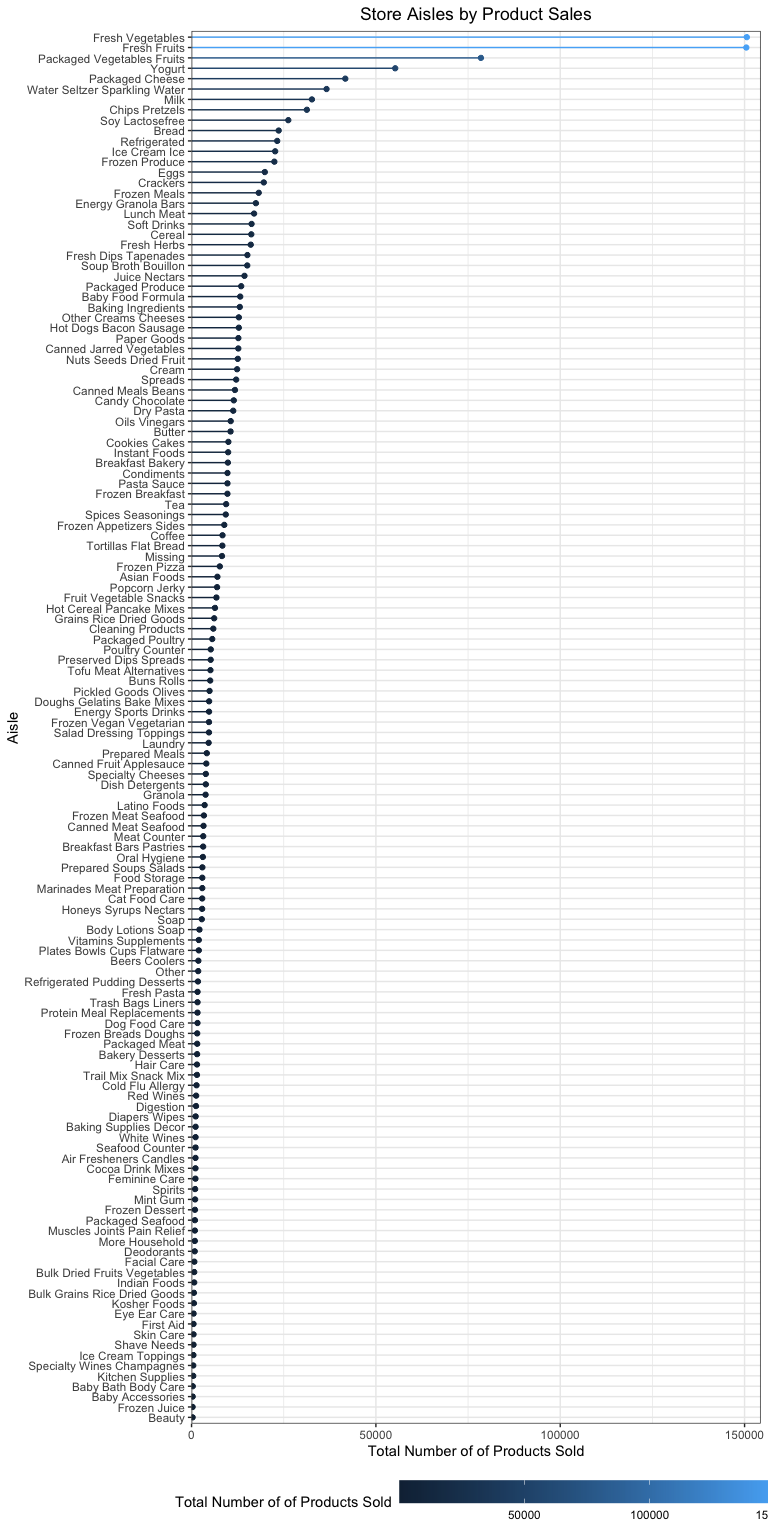
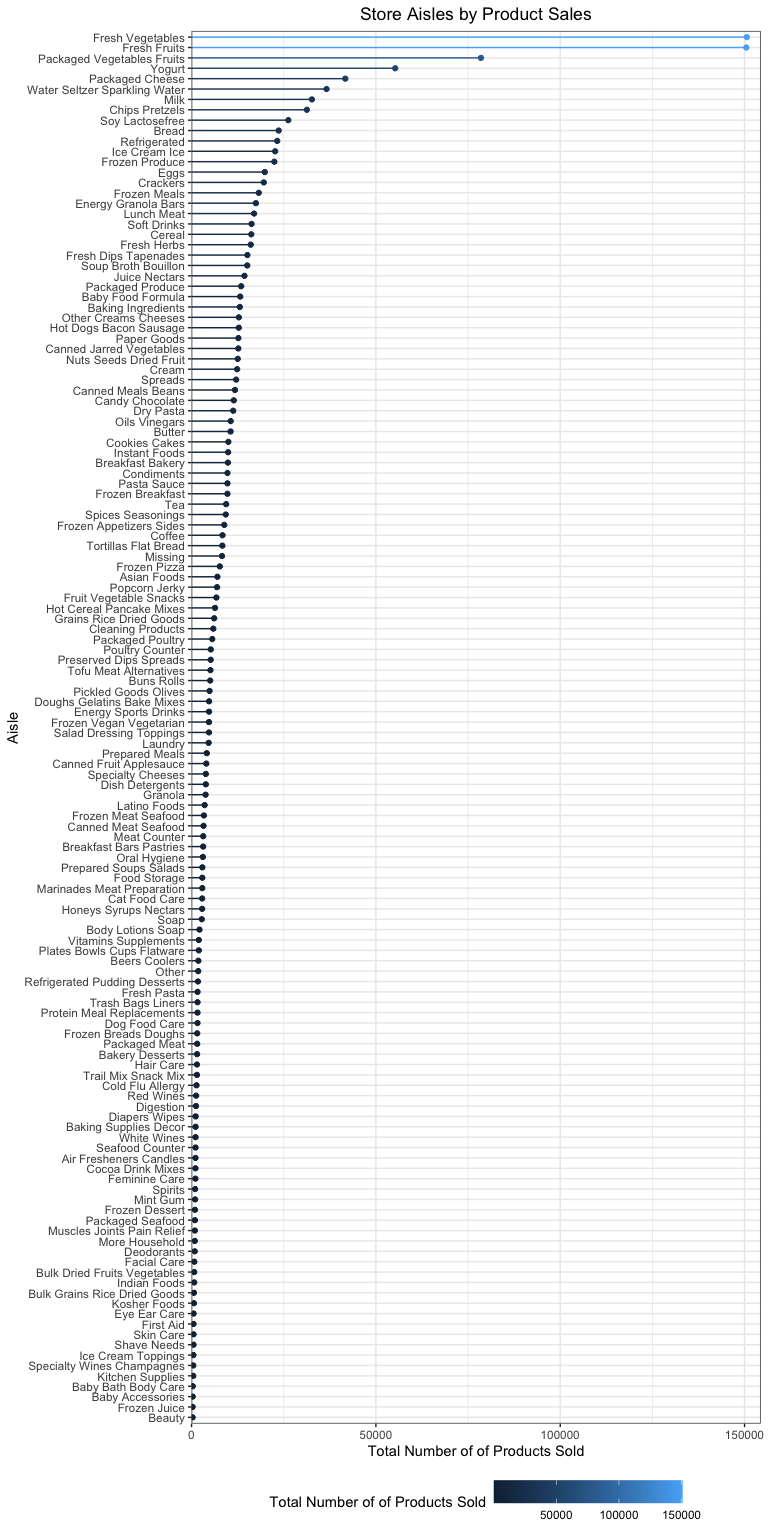
fix figure display

Changed region(s): [[0.25, 0.9375, 0.7188, 1.0], [0.7812, 0.9375, 1.0, 1.0]]

diff --git a/pubh7462_hw3_wojan.md b/pubh7462_hw3_wojan.md
@@ -106,7 +106,7 @@ instacart %>%
   labs(x = "Total Number of of Products Sold",
        y = "Aisle",
        title = "Store Aisles by Product Sales") +
-  theme(legend.key.width = unit(2, "cm"))
+  theme(legend.key.width = unit(1, "cm"))
 ```
 
 ![](pubh7462_hw3_wojan_files/figure-gfm/prob_3.2-1.png)<!-- -->
@@ -143,15 +143,15 @@ instacart %>%
   facet_wrap(vars(department)) +
   ## Set visual style of plot
   scale_color_hue(h = c(100, 180), l = 50, c = 150,
-                   name = "Sales Rank within Department") +
+                   name = "Sales Rank \nwithin Department") +
   scale_x_continuous(expand = expansion(mult = c(0, 0.025))) +
   scale_y_continuous(trans = "reverse") +
-  guides(color = guide_legend(nrow = 1)) +
+  guides(color = guide_legend(nrow = 6)) +
   labs(x = "Number of of Products Sold",
        y = "",
        title = "Top Six Aisles in Top Six Departments by Sales") +
   theme(axis.text.y = element_blank(), axis.ticks.y = element_blank(),
-        panel.spacing.x = unit(6, "mm"))
+        panel.spacing.x = unit(6, "mm"), legend.position = "right")
 ```
 
 ![](pubh7462_hw3_wojan_files/figure-gfm/prob_3.3-1.png)<!-- -->
